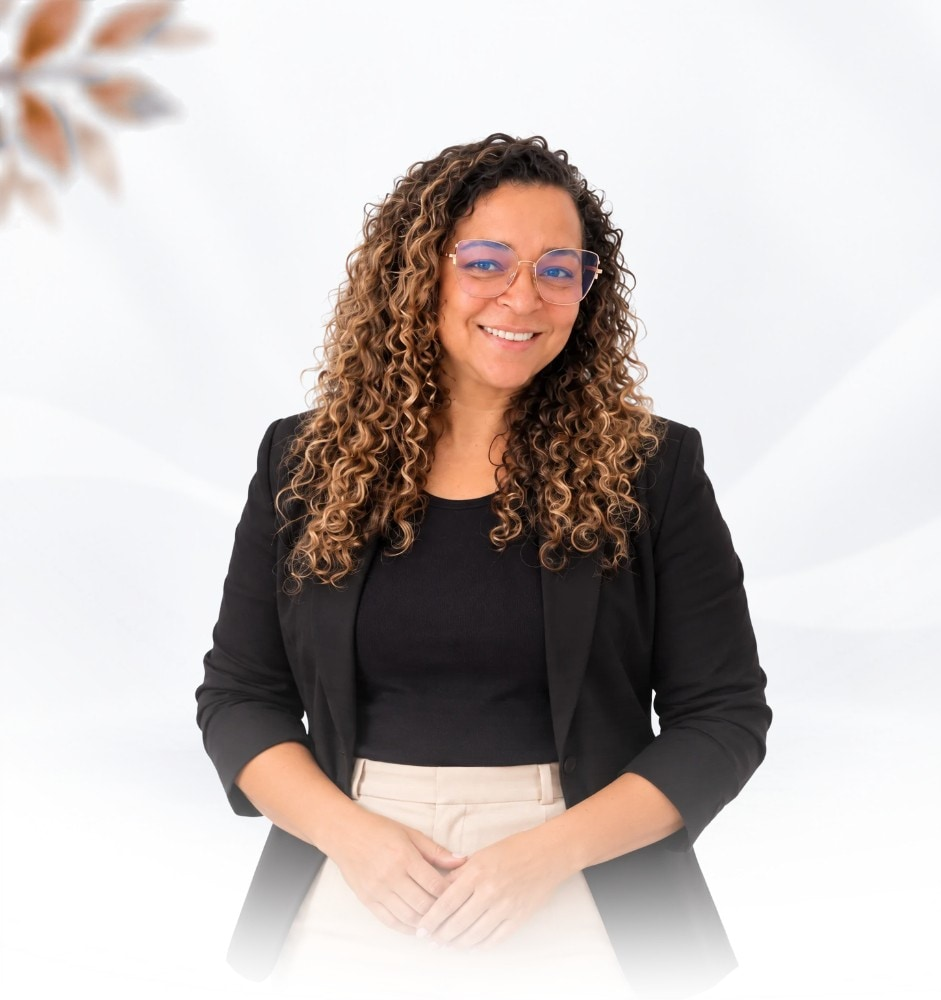
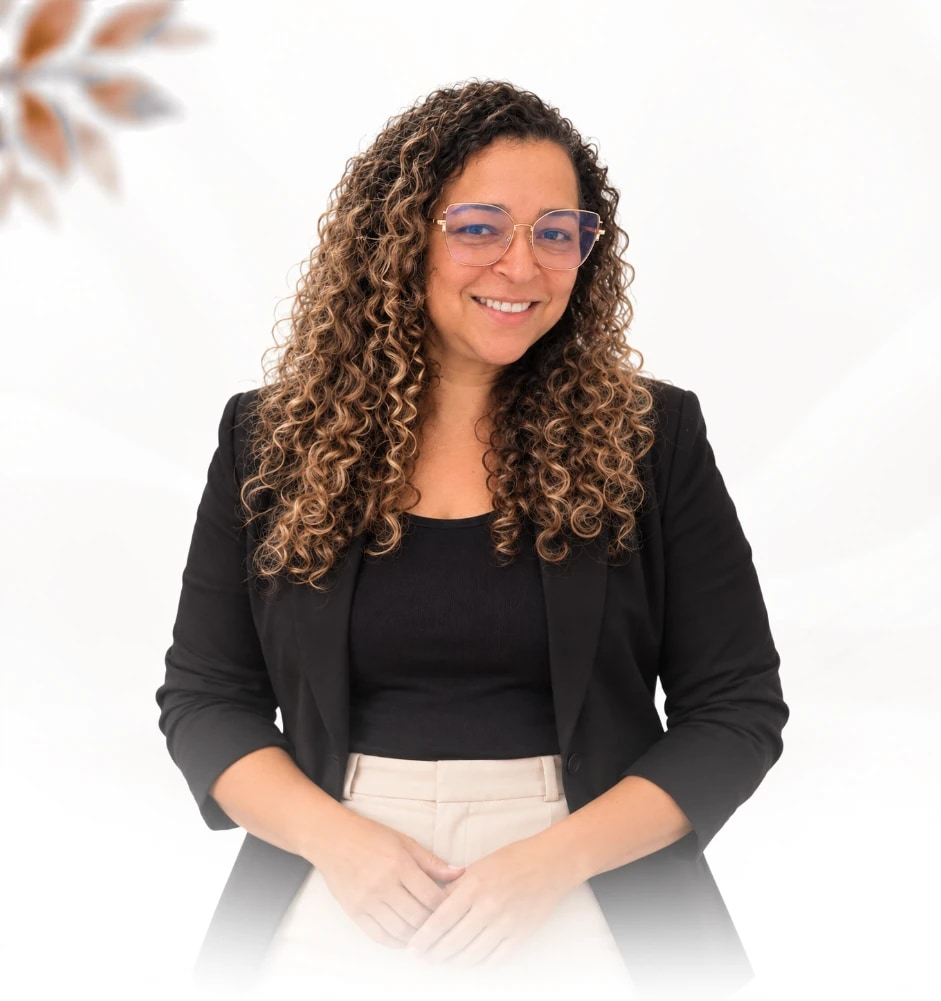
Hero do celular com a nova foto da Silvana

Changed region(s): [[0.1541, 0.062, 0.8321, 0.961], [0.678, 0.682, 0.7088, 0.744], [0.3698, 0.899, 0.4006, 0.93]]

diff --git a/index.html b/index.html
@@ -184,7 +184,7 @@ img:is([sizes=auto i],[sizes^="auto," i]){contain-intrinsic-size:3000px 1500px}
 <div class="hero-m">
   <picture>
     <source srcset="./assets/hero-mobile-novo.webp" type="image/webp">
-    <img class="hero-m__foto" src="./assets/hero-mobile-novo.jpg" width="941" height="1000" alt="Silvana Almeida, psicóloga" fetchpriority="high">
+    <img class="hero-m__foto" src="./assets/hero-mobile-novo.jpg" width="941" height="1001" alt="Silvana Almeida, psicóloga" fetchpriority="high">
   </picture>
   <div class="hero-m__conteudo">
     <h2 class="hero-m__titulo">Você não precisa enfrentar tudo <span>sozinha(o).</span></h2>
